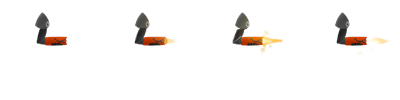
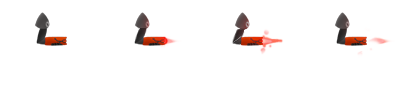
changed shot color to red

diff --git a/jumpnshoot/jumpnshoot.js b/jumpnshoot/jumpnshoot.js
@@ -89,7 +89,7 @@ function JumpNShoot(){
                  "position": "absolute",
                  "top": "0px",
                  "left": "0px",
-                 "background-color": "#ffe492",
+                 "background-color": "red",
                  "transform-origin": "20px -15px",
                  "border-radius":"2px",
                  "visibility": "hidden",
